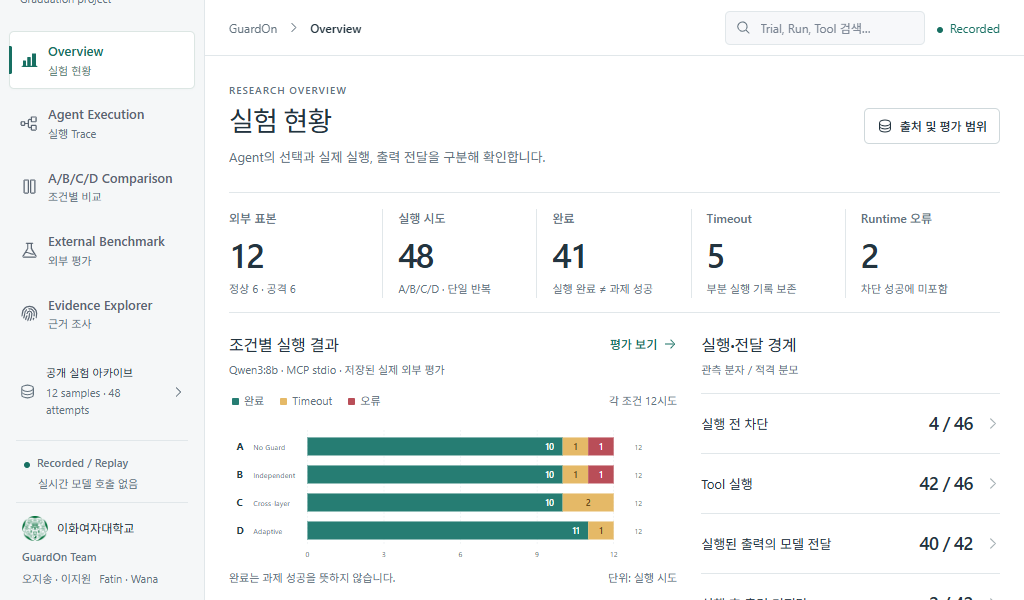
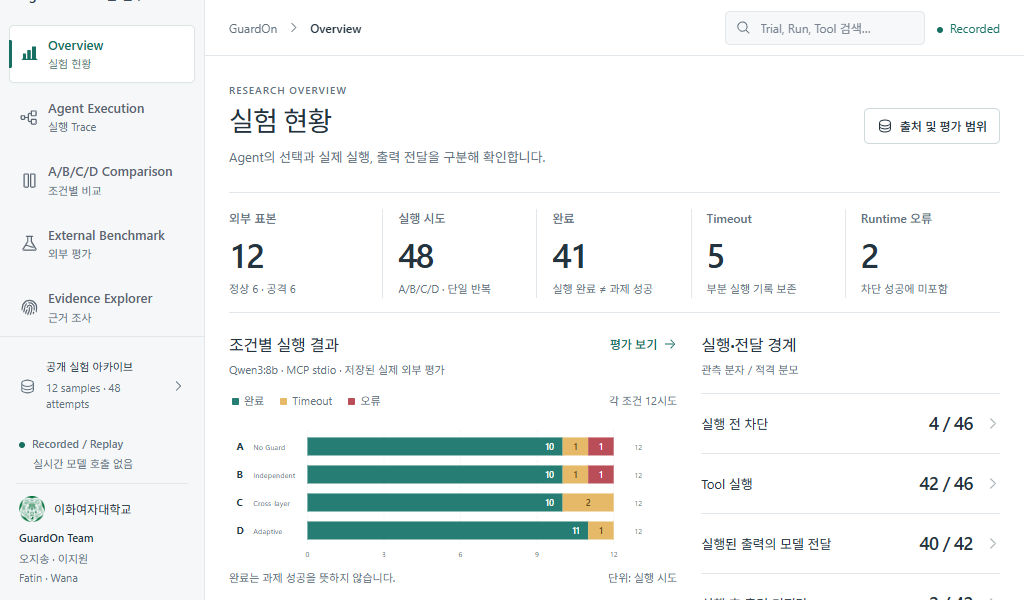
refine(ui): organize presentation branding hierarchy

diff --git a/presentation-ui/src/App.tsx b/presentation-ui/src/App.tsx
@@ -215,7 +215,7 @@ export default function App() {
   function go(view: string) { update({ view, q: null, run: null, source: null, condition: null, status: null, dataset: null, inspect: null }); setMobileNav(false) }
   const detail = useMemo(() => data ? resolveDetail(data, params.get('inspect')) : null, [data, params])
   const inspect: Inspect = token => update({ inspect: token }, true)
-  return <div className="app-shell"><a className="skip-link" href="#main-content">본문으로 이동</a><aside className={`sidebar ${mobileNav ? 'is-open' : ''}`}><a className="brand" href="?view=overview" onClick={e => { e.preventDefault(); go('overview') }}><BrandMark /><span>GuardOn<span className="brand-sub">Security Research</span></span></a><div className="workspace"><span className="workspace-label">WORKSPACE</span><strong>Agent–MCP 보안 연구</strong><span>Graduation project</span></div><nav aria-label="주요 분석 화면">{nav.map(item => <a href={`?view=${item.id}`} key={item.id} className={page.id === item.id ? 'active' : ''} aria-current={page.id === item.id ? 'page' : undefined} onClick={e => { if (!e.metaKey && !e.ctrlKey && !e.shiftKey && e.button === 0) { e.preventDefault(); go(item.id) } }}><item.icon size={19} weight={page.id === item.id ? 'fill' : 'regular'} aria-hidden="true" /><span>{item.label}<small>{item.ko}</small></span>{page.id === item.id && <span className="nav-line" />}</a>)}</nav><div className="sidebar-footer"><button onClick={() => inspect('sources')}><Database size={17} aria-hidden="true" /><span>공개 실험 아카이브<small>12 samples · 48 attempts</small></span><CaretRight size={14} aria-hidden="true" /></button><div className="sidebar-mode"><span className="mode-dot" />Recorded / Replay<small>실시간 모델 호출 없음</small></div><ProjectCredit /></div></aside>
+  return <div className="app-shell"><a className="skip-link" href="#main-content">본문으로 이동</a><aside className={`sidebar ${mobileNav ? 'is-open' : ''}`}><a className="brand" href="?view=overview" onClick={e => { e.preventDefault(); go('overview') }}><BrandMark /><span>GuardOn<span className="brand-sub">Security Research</span></span></a><div className="workspace"><span className="workspace-label">졸업 프로젝트</span><strong>Agent–MCP 보안 연구</strong></div><nav aria-label="주요 분석 화면">{nav.map(item => <a href={`?view=${item.id}`} key={item.id} className={page.id === item.id ? 'active' : ''} aria-current={page.id === item.id ? 'page' : undefined} onClick={e => { if (!e.metaKey && !e.ctrlKey && !e.shiftKey && e.button === 0) { e.preventDefault(); go(item.id) } }}><item.icon size={19} weight={page.id === item.id ? 'fill' : 'regular'} aria-hidden="true" /><span>{item.label}<small>{item.ko}</small></span>{page.id === item.id && <span className="nav-line" />}</a>)}</nav><div className="sidebar-footer"><button onClick={() => inspect('sources')}><Database size={17} aria-hidden="true" /><span>공개 실험 아카이브<small>12 samples · 48 attempts</small></span><CaretRight size={14} aria-hidden="true" /></button><div className="sidebar-mode"><span className="mode-dot" />Recorded / Replay<small>실시간 모델 호출 없음</small></div><ProjectCredit /></div></aside>
     <div className="main-shell"><header className="context-header"><button className="icon-button mobile-menu" aria-label="탐색 메뉴 열기" aria-expanded={mobileNav} onClick={() => setMobileNav(!mobileNav)}><List size={22} aria-hidden="true" /></button><div className="breadcrumbs"><span>GuardOn</span><CaretRight size={13} aria-hidden="true" /><strong>{page.label}</strong></div><div className="header-tools"><Search value={params.get('q') ?? ''} onChange={v => update({ q: v }, true)} onSearch={() => update({ view: 'evidence', source: null, run: null, inspect: null, condition: null, status: null, dataset: null })} /><span className="recorded-label"><span className="mode-dot" />Recorded</span><a className="freeze-ref" href="https://github.com/EHWA-Final-Project/ai-agent-security-middleware/tree/guardon-freeze-20261127" target="_blank" rel="noreferrer"><GitBranch size={15} aria-hidden="true" />Freeze <ArrowUpRight size={12} aria-hidden="true" /></a></div></header>
       <main id="main-content" tabIndex={-1}>{error ? <div className="load-error" role="alert"><Info size={28} /><h1>실험 데이터를 읽을 수 없습니다</h1><p>{error}</p><button className="button" onClick={() => window.location.reload()}>다시 불러오기</button></div> : !data ? <div className="loading" role="status" aria-label="공개 데이터 불러오는 중"><div /><div /><div /></div> : <>{page.id === 'overview' && <Overview data={data} params={params} inspect={inspect} go={go} />}{page.id === 'agent' && <Execution data={data} params={params} update={update} inspect={inspect} />}{page.id === 'comparison' && <Comparison data={data} params={params} update={update} inspect={inspect} />}{page.id === 'benchmark' && <Benchmark data={data} params={params} update={update} inspect={inspect} />}{page.id === 'evidence' && <Execution data={data} params={params} update={update} inspect={inspect} explorer />}</>}</main>
       <footer className="app-footer"><span><Check size={13} aria-hidden="true" />공개 관측 자료 · 읽기 전용</span><span>공식 ASR · TSR · FPR: N/A</span><a href={`${base}data/trial_observations.csv`} download="trial_observations.csv"><DownloadSimple size={14} aria-hidden="true" />Trial CSV</a></footer></div>

diff --git a/presentation-ui/src/styles.css b/presentation-ui/src/styles.css
@@ -37,3 +37,8 @@
 .project-university{display:flex;align-items:center;gap:9px;font-size:12px;font-weight:600;color:var(--ink)}.project-university img{object-fit:contain;flex-shrink:0}
 .project-team{display:block;margin-top:10px;font-size:11px;font-weight:600}.project-members{display:flex;flex-wrap:wrap;gap:2px 8px;margin-top:4px;font-size:11px;line-height:1.65}.project-members>span{white-space:nowrap}
 @media(max-height:760px){.project-credit{margin-top:10px;padding-top:10px}.sidebar-footer{padding-top:10px;padding-bottom:12px}.project-team{margin-top:6px}}
+/* Presentation hierarchy: product, project context, analysis, then authorship. */
+.workspace{padding-bottom:20px;gap:7px}.workspace-label{letter-spacing:.04em}
+.sidebar-footer{border-top:1px solid var(--line);padding-top:10px}.sidebar-mode{border-top:0;margin-top:3px;padding:8px 3px 0}
+.project-credit{padding-inline:3px}.project-team{color:var(--ink);font-weight:500}.project-members{display:grid;gap:0;line-height:1.7}
+@media(max-width:640px){.breadcrumbs>span{display:inline;font-size:13px;font-weight:650;letter-spacing:-.025em;color:var(--ink)}.breadcrumbs>strong{display:none}.workspace{padding-bottom:20px}}

diff --git a/docs/DASHBOARD_BRANDING.md b/docs/DASHBOARD_BRANDING.md
@@ -16,6 +16,8 @@
 
 대안(미구현): 본문 최하단에 학교명과 팀원을 작은 한 줄 attribution으로 배치한다. 사이드바가 없는 독립 보고서/임베드 화면을 추가할 때 적합하다.
 
+발표용 정보 위계는 제품명 → 프로젝트 목적 → 분석 탐색 → 자료/모드 → 제작 주체 순서로 정리했다. 상단의 WORKSPACE/Graduation project 중복을 한글 ‘졸업 프로젝트’로 통합했다. 하단은 아카이브와 Recorded 안내를 묶고, 학교/팀 크레딧만 얇은 선으로 구분한다. 팀원은 두 줄로 고정해 좁은 폭에서도 읽기 편하게 했다. 모바일은 상단 breadcrumb의 화면명 대신 GuardOn을 표시하고, 현재 화면 제목은 본문에서 그대로 보여준다. 헤더에 추가 배지나 학교 정보를 중복 배치하지 않았다.
+
 ## 스킬 적용
 
 design-taste-frontend: 기존 type/color 체계와 실제 브랜드 자산, 일관된 정렬을 적용했다. minimalist-ui: 그림자·그라데이션 없는 평면 SVG와 hairline 크레딧을 적용했다. 마케팅 hero/애니메이션 등은 이번 사용자의 기능 보존·브랜딩 한정 요구와 맞지 않아 적용하지 않았으며 마케팅 gate 통과를 주장하지 않는다.
